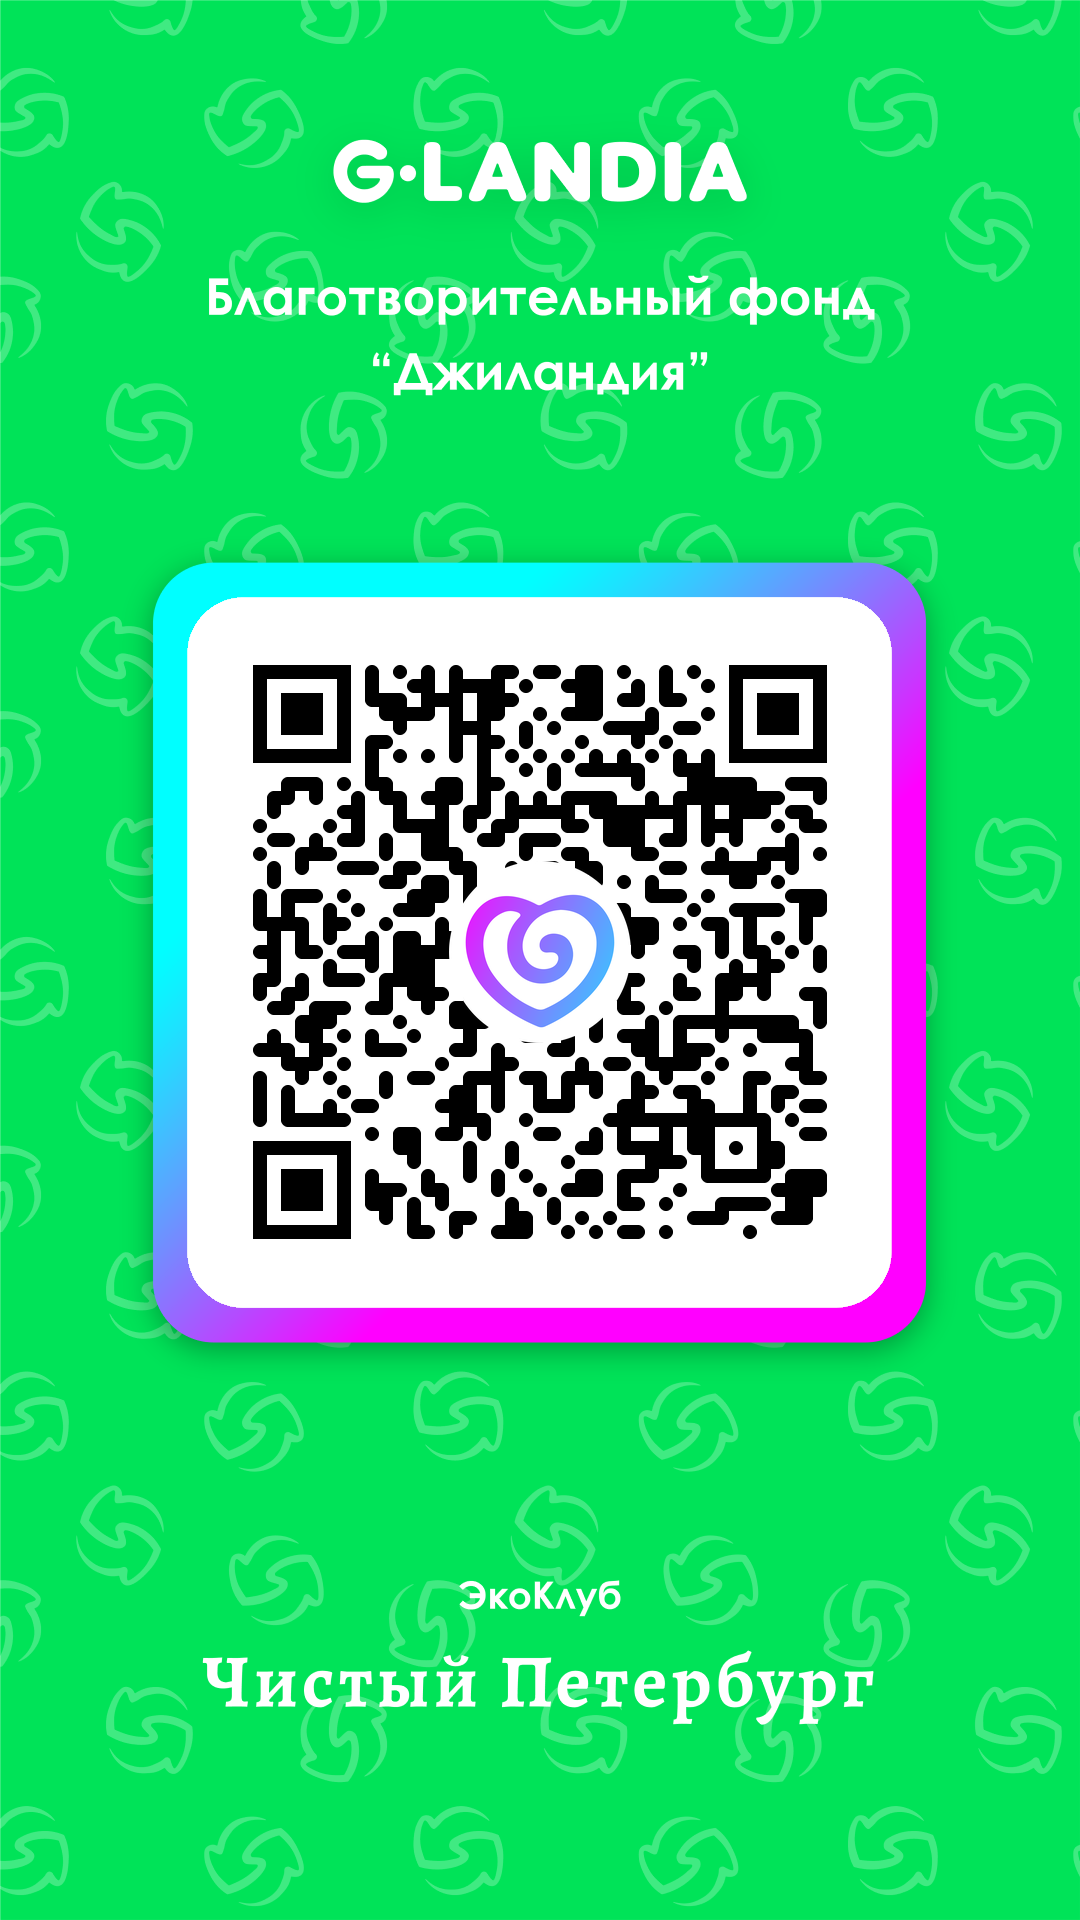
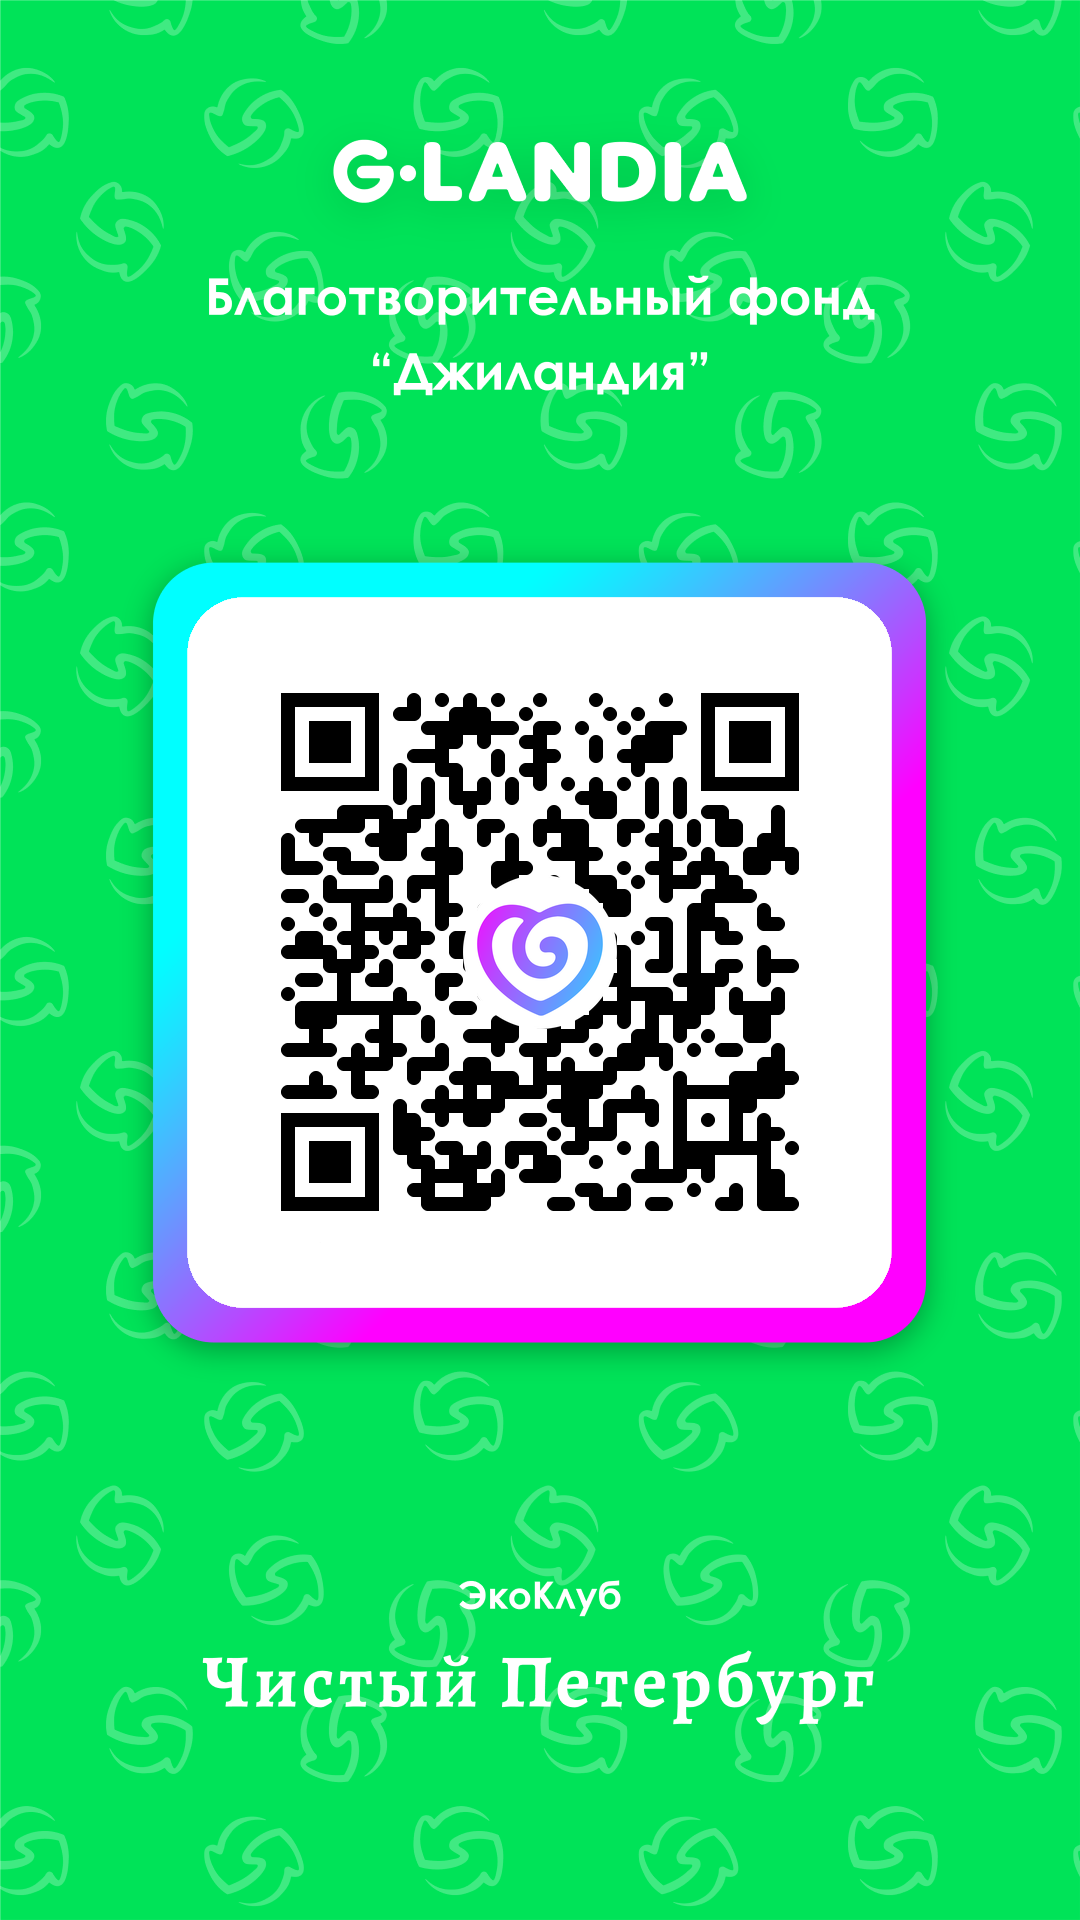
correct path import new mrmbers

Changed region(s): [[0.2139, 0.3438, 0.7639, 0.6562]]

diff --git a/general/templates/general/qr_email_sending.html b/general/templates/general/qr_email_sending.html
@@ -7,7 +7,7 @@
 <body>
  <H1>Отправка QR кодов:</H1>
     <div>
-        {{ mailing_log }}
+        {{ mailing_log|safe }}
     </div>
 </body>
 </html>

diff --git a/general/main_func.py b/general/main_func.py
@@ -100,6 +100,12 @@ PREV_MONTH = (datetime.now() - relativedelta(months=1)).strftime("%m")
 YEAR = datetime.now().strftime("%Y")
 
 
+def translit_safe(data, reversed=True):
+    try:
+        return translit(data, reversed)
+    except:
+        return data
+
 def correct_phone_number(p_number):
     return p_number[-10:]
 
@@ -126,7 +132,7 @@ def make_qrcode(row):
         filename = "qr_code_link.png"
     else:
         data = (f"{split_delsps(row['email'])[0]} {row['expire']} "
-                + f"{translit(row['name'], reversed=True)} "
+                + f"{translit_safe(row['name'], reversed=True)} "
                 + f"{correct_phone_number(row['phone'])}"
                 )
         filename = "qr_code.png"

diff --git a/general/views.py b/general/views.py
@@ -62,7 +62,7 @@ def qr_email_sending(request):
     all_members = mf.get_all_memb_df(all_members)
     log = mf.do_mailing_and_log(all_members, all_members_sheets.sheet1)
     context = {
-        'mailing_log': log
+        'mailing_log': [x + '<br>' for x in log]
     }
     return render(request, "general/qr_email_sending.html", context)
 
@@ -144,7 +144,6 @@ def add_members(request):
             data_memb['print'] = ''
 
             mf.move_files(file_list, mf.new_members_import, mf.new_members_archive, echo=True)
-
             # print(data_memb)
         else:
             print(f'Данные для импорта не найдены')
